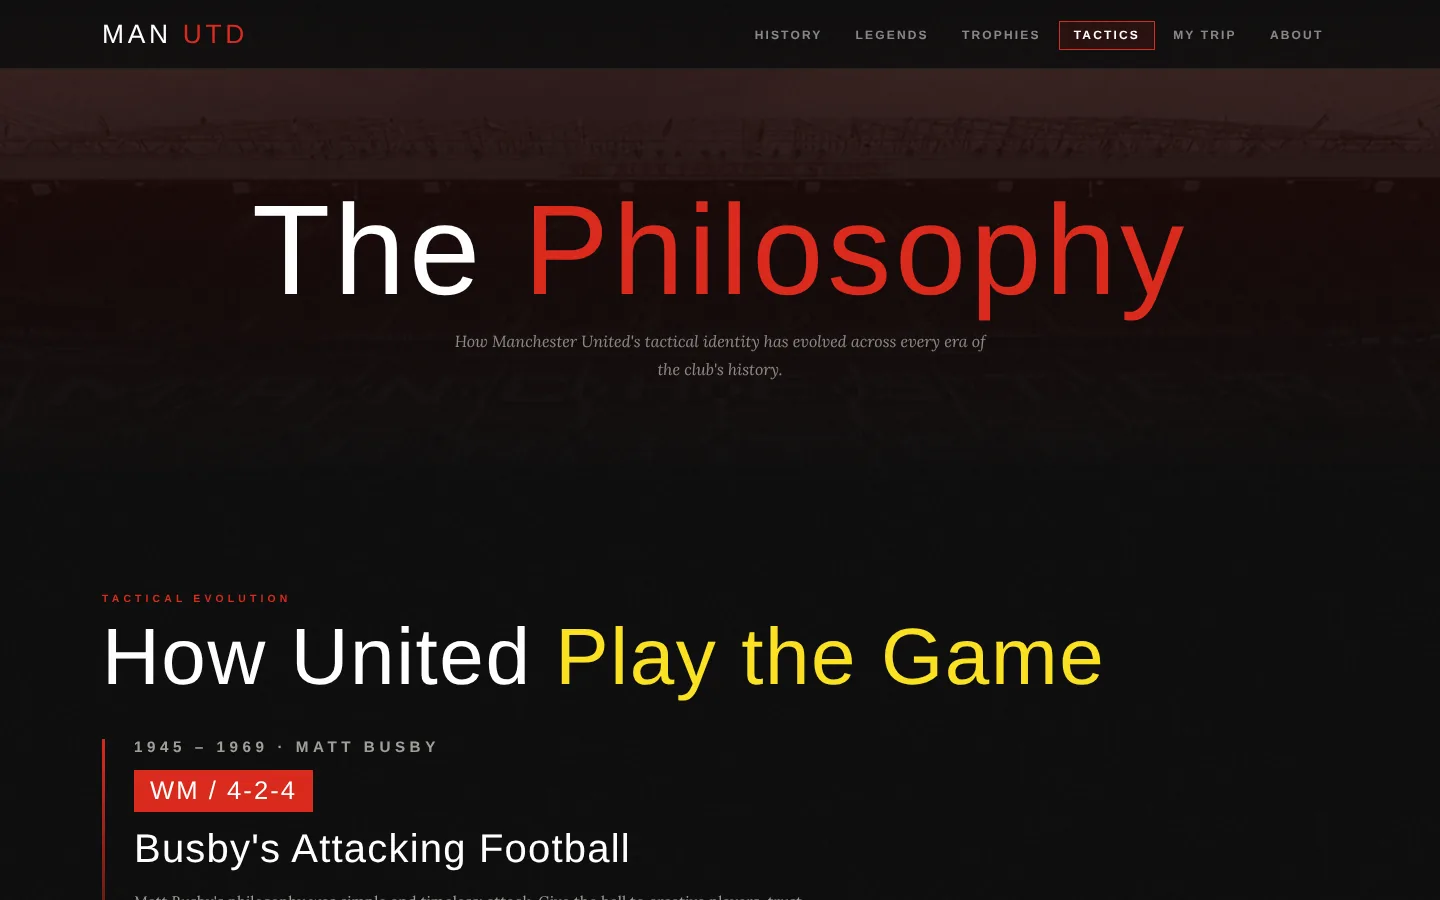
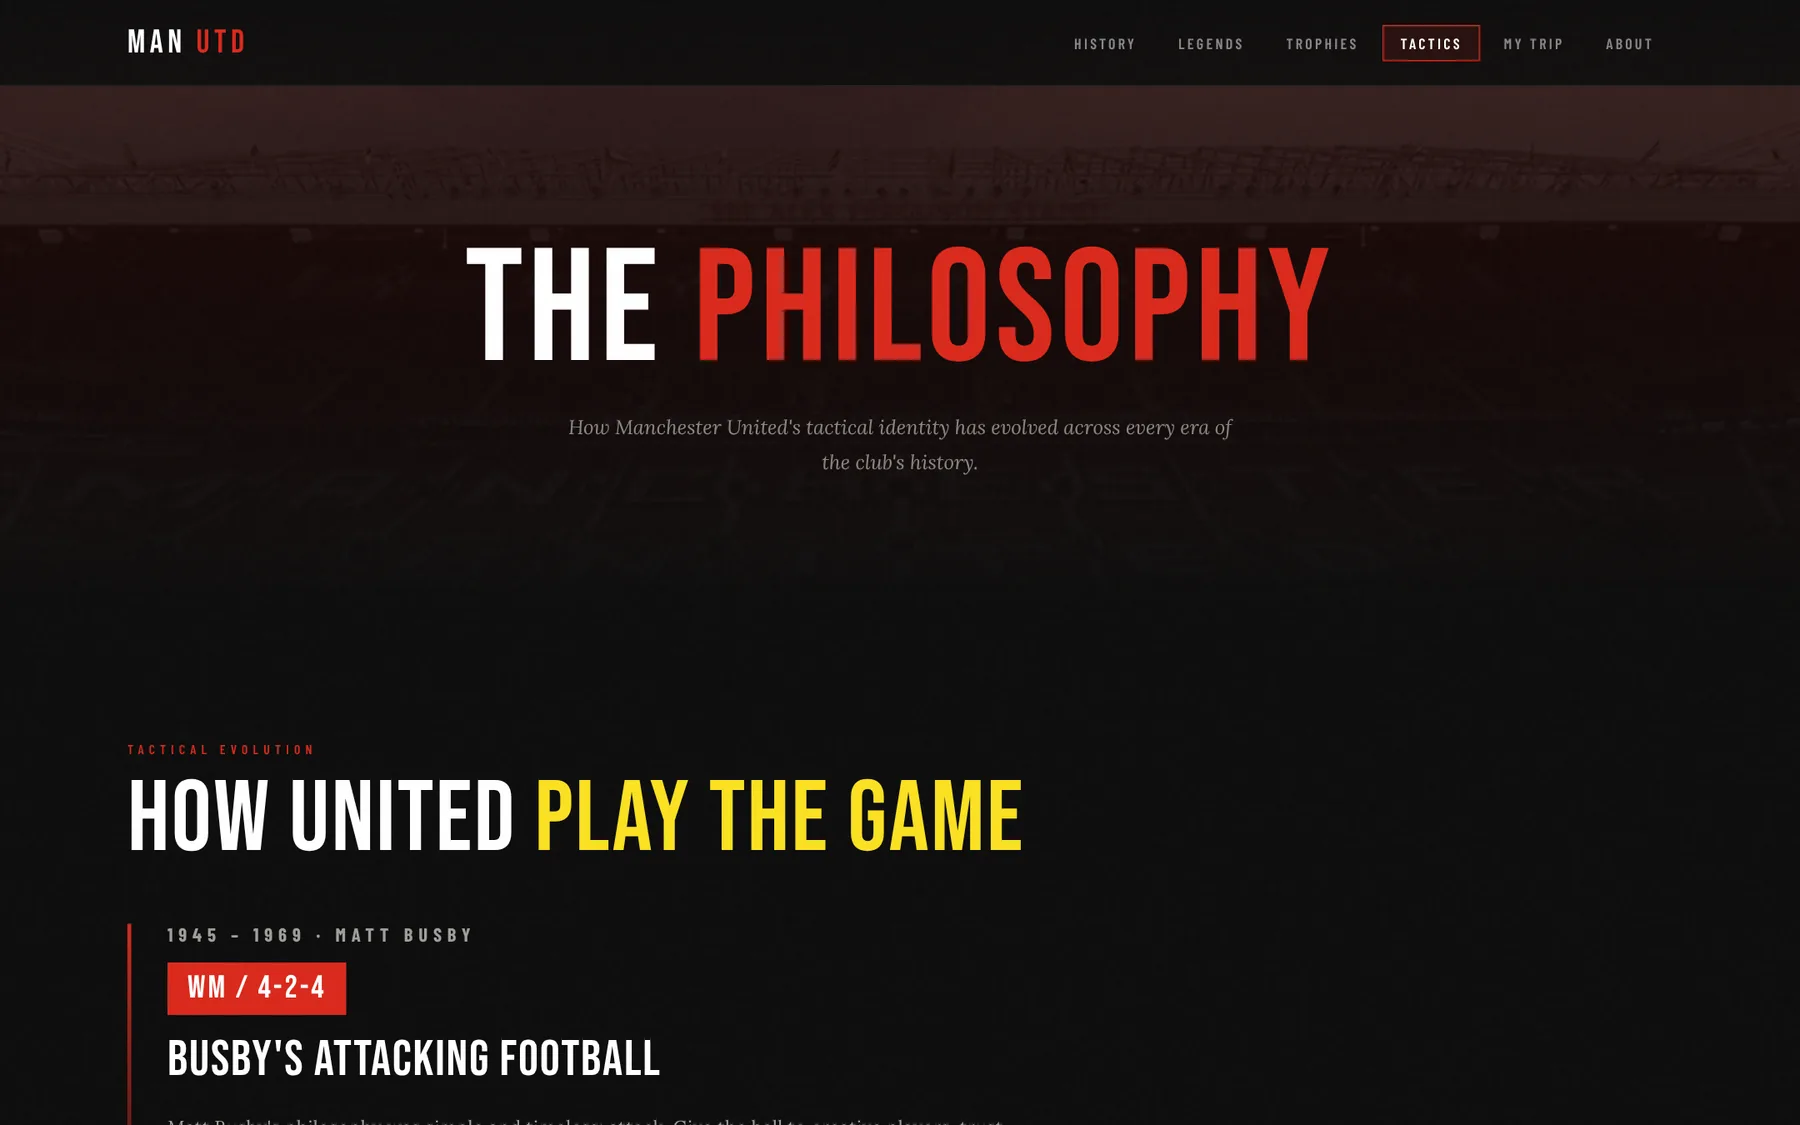
Fresh Man Utd Hub and Mind of Their Own screenshots with real fonts
Claude-Session: https://claude.ai/code/session_01K37ALsZKUWP2NUt9XdPzQ5

diff --git a/pages/manutd.html b/pages/manutd.html
@@ -45,12 +45,17 @@
 <section class="p-body"><div class="wrap p-cols"><div class="prose reveal"><p>This site was built as a love letter to <em>Manchester United Football Club</em>. It covers the full scope of the club's history from foundation in 1878 through the Busby era, the Munich air disaster, Sir Alex Ferguson's dynasty, and beyond.</p>
 <p>The design is bold and unapologetic. Dark backgrounds, United red accents, strong typography. Each page covers a different part of the club. The home page sets the tone with Old Trafford imagery and stats, the Legends page profiles icons like Best, Charlton, Cantona, and Keane, and the Trophies section lays out the full honours list.</p>
 <p>Built as a <strong>responsive multipage site</strong> with real photography, a hamburger mobile nav, and a distinct section for every part of the club, including my own trip to Old Trafford.</p></div><ul class="meta reveal d1"><li><span>Role</span>Design &amp; Development</li><li><span>Tools</span>HTML · CSS · Flexbox</li><li><span>Type</span>Multipage fan website</li><li><span>Pages</span>Home, History, Legends, Trophies, Tactics, My Trip, About</li><li><span>Live site</span><a href="https://kylewilson2402.github.io/Manchester-United-/" target="_blank" rel="noopener">kylewilson2402.github.io/Manchester-United-</a></li></ul></div></section><section class="block"><div class="wrap"><div class="block-head"><div><span class="label">Screens</span><h2 class="display h-md cut">Site walkthrough</h2></div></div><div class="gallery"><figure class="shot s12 reveal"><button type="button" class="shot-frame browser" data-url="https://kylewilson2402.github.io/Manchester-United-/" data-lb="mu" data-cap="Home"><img src="../assets/work/manutd/home.webp" alt="Home" loading="lazy"></button>
-<figcaption><b>Home</b><span>Old Trafford photography across the full screen with Glory Glory Man United typography and a red CTA.</span></figcaption></figure><figure class="shot  reveal"><button type="button" class="shot-frame browser" data-url="https://kylewilson2402.github.io/Manchester-United-/legends.html" data-lb="mu" data-cap="The Legends"><img src="../assets/work/manutd/legends.webp" alt="The Legends" loading="lazy"></button>
-<figcaption><b>The Legends</b><span>Icons of Old Trafford. Best, Charlton, Cantona, Keane with real photos and career bios.</span></figcaption></figure><figure class="shot  reveal"><button type="button" class="shot-frame browser" data-url="https://kylewilson2402.github.io/Manchester-United-/trophies.html" data-lb="mu" data-cap="The Honours Board"><img src="../assets/work/manutd/trophies.webp" alt="The Honours Board" loading="lazy"></button>
-<figcaption><b>The Honours Board</b><span>The full trophy cabinet.</span></figcaption></figure><figure class="shot  reveal"><button type="button" class="shot-frame browser" data-url="https://kylewilson2402.github.io/Manchester-United-/history.html" data-lb="mu" data-cap="The History"><img src="../assets/work/manutd/history.webp" alt="The History" loading="lazy"></button>
-<figcaption><b>The History</b><span>A club built on grit, from Newton Heath LYR FC onward.</span></figcaption></figure><figure class="shot  reveal"><button type="button" class="shot-frame browser" data-url="https://kylewilson2402.github.io/Manchester-United-/tactics.html" data-lb="mu" data-cap="The Philosophy"><img src="../assets/work/manutd/tactics.webp" alt="The Philosophy" loading="lazy"></button>
-<figcaption><b>The Philosophy</b><span>How United play the game, era by era.</span></figcaption></figure><figure class="shot s12 reveal"><button type="button" class="shot-frame browser" data-url="https://kylewilson2402.github.io/Manchester-United-/trip.html" data-lb="mu" data-cap="My Trip"><img src="../assets/work/manutd/trip.webp" alt="My Trip" loading="lazy"></button>
-<figcaption><b>My Trip</b><span>I Was There. My own visit to Old Trafford.</span></figcaption></figure></div></div></section>
+<figcaption><b>Home</b><span>Old Trafford photography across the full screen with Glory Glory Man United typography and a red CTA.</span></figcaption></figure><figure class="shot  reveal"><button type="button" class="shot-frame browser" data-url="https://kylewilson2402.github.io/Manchester-United-/" data-lb="mu" data-cap="The Club"><img src="../assets/work/manutd/club.webp" alt="The Club" loading="lazy"></button>
+<figcaption><b>The Club</b><span>Red stats bar (20 league titles, 3 European Cups, 12 FA Cups) and the club intro.</span></figcaption></figure><figure class="shot  reveal"><button type="button" class="shot-frame browser" data-url="https://kylewilson2402.github.io/Manchester-United-/" data-lb="mu" data-cap="The Red Devils"><img src="../assets/work/manutd/badge.webp" alt="The Red Devils" loading="lazy"></button>
+<figcaption><b>The Red Devils</b><span>The glowing badge section.</span></figcaption></figure><figure class="shot  reveal"><button type="button" class="shot-frame browser" data-url="https://kylewilson2402.github.io/Manchester-United-/legends.html" data-lb="mu" data-cap="The Legends"><img src="../assets/work/manutd/legends.webp" alt="The Legends" loading="lazy"></button>
+<figcaption><b>The Legends</b><span>Icons of Old Trafford.</span></figcaption></figure><figure class="shot  reveal"><button type="button" class="shot-frame browser" data-url="https://kylewilson2402.github.io/Manchester-United-/legends.html" data-lb="mu" data-cap="Legend profiles"><img src="../assets/work/manutd/legend-profiles.webp" alt="Legend profiles" loading="lazy"></button>
+<figcaption><b>Legend profiles</b><span>Best, Charlton, Cantona, Keane with real photos and career bios.</span></figcaption></figure><figure class="shot  reveal"><button type="button" class="shot-frame browser" data-url="https://kylewilson2402.github.io/Manchester-United-/history.html" data-lb="mu" data-cap="The History"><img src="../assets/work/manutd/history.webp" alt="The History" loading="lazy"></button>
+<figcaption><b>The History</b><span>A club built on grit, from Newton Heath LYR FC onward.</span></figcaption></figure><figure class="shot  reveal"><button type="button" class="shot-frame browser" data-url="https://kylewilson2402.github.io/Manchester-United-/trophies.html" data-lb="mu" data-cap="The Honours Board"><img src="../assets/work/manutd/trophies.webp" alt="The Honours Board" loading="lazy"></button>
+<figcaption><b>The Honours Board</b><span>The full trophy cabinet.</span></figcaption></figure><figure class="shot  reveal"><button type="button" class="shot-frame browser" data-url="https://kylewilson2402.github.io/Manchester-United-/tactics.html" data-lb="mu" data-cap="The Philosophy"><img src="../assets/work/manutd/tactics.webp" alt="The Philosophy" loading="lazy"></button>
+<figcaption><b>The Philosophy</b><span>How United play the game, era by era.</span></figcaption></figure><figure class="shot  reveal"><button type="button" class="shot-frame browser" data-url="https://kylewilson2402.github.io/Manchester-United-/" data-lb="mu" data-cap="One Club. One Badge."><img src="../assets/work/manutd/squad.webp" alt="One Club. One Badge." loading="lazy"></button>
+<figcaption><b>One Club. One Badge.</b><span>The squad section on the home page.</span></figcaption></figure><figure class="shot  reveal"><button type="button" class="shot-frame browser" data-url="https://kylewilson2402.github.io/Manchester-United-/trip.html" data-lb="mu" data-cap="My Trip"><img src="../assets/work/manutd/trip.webp" alt="My Trip" loading="lazy"></button>
+<figcaption><b>My Trip</b><span>I Was There. My own visit to Old Trafford.</span></figcaption></figure><figure class="shot  reveal"><button type="button" class="shot-frame browser" data-url="https://kylewilson2402.github.io/Manchester-United-/trip.html" data-lb="mu" data-cap="The Theatre of Dreams"><img src="../assets/work/manutd/trip-theatre.webp" alt="The Theatre of Dreams" loading="lazy"></button>
+<figcaption><b>The Theatre of Dreams</b><span>Stats and photos from the trip.</span></figcaption></figure></div></div></section>
 <a class="next-proj on-cobalt" href="book-page.html">
   <div class="halftone-field"></div>
   <div class="wrap"><span class="label">Next channel · CH 06</span><div class="display cut">From the Yard to the City</div></div>
